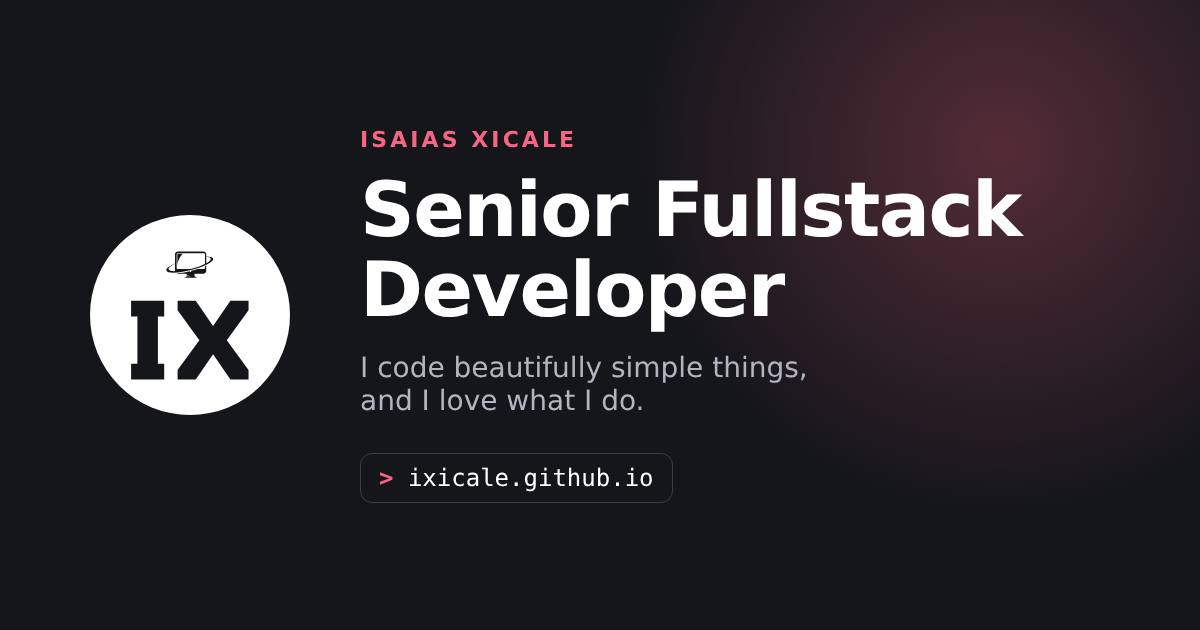
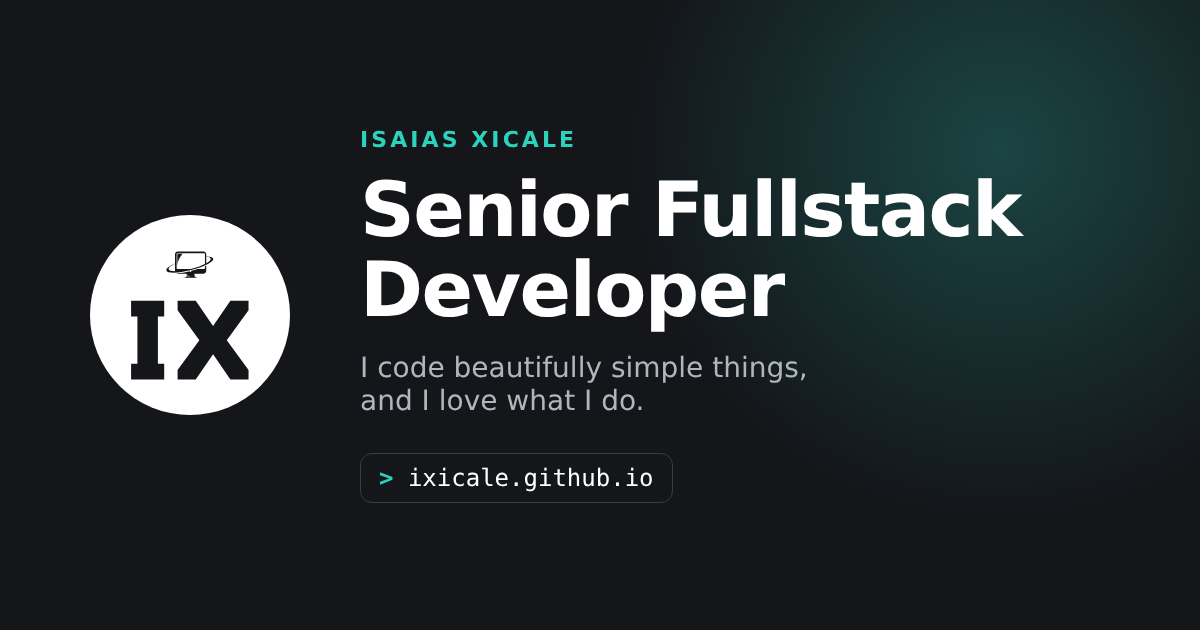
Use teal as the brand color and remove the GIF frame
- Brand color is now teal. _sass/_tokens.scss keeps one shade for the
  light theme (white text on it) and one for the dark theme.
- The intro GIF has no card frame. Light theme uses the white GIF on
  the white page. Dark theme uses a new intro-dark.gif: white areas
  become the page color and dark lines become light.
- The hero loads the GIF as a background image, so the browser loads
  only the GIF for the current theme.
- Hero buttons align left, the glow moves behind the text, and the
  link preview image uses teal.

Claude-Session: https://claude.ai/code/session_011fxJXWYugG9Ywsr2ganWa5

Changed region(s): [[0.6475, 0.0, 1.0, 0.573], [0.3083, 0.2111, 0.4933, 0.2413], [0.3083, 0.754, 0.3392, 0.7841]]

diff --git a/_sass/_tokens.scss b/_sass/_tokens.scss
@@ -3,15 +3,19 @@
 // Bulma 1.0 reads CSS variables, so the page and Bulma use the same values.
 // -----------------------------------------------------------------------------
 
-// Brand color: the pink from the old typing banner (#F75C7E).
-$accent-hue: 347;
+// Brand color: teal, like the teal in the intro GIF.
+// To change it, change the hue. Then check the contrast of the buttons:
+// light theme uses white text on the color, dark theme uses dark text.
+$accent-hue: 172;
+$accent-light: hsl($accent-hue, 80%, 28%); // Light theme (white text on it).
+$accent-dark: hsl($accent-hue, 65%, 50%); // Dark theme (dark text on it).
 
 @mixin light-tokens {
-  --accent: hsl(#{$accent-hue}, 72%, 46%);
-  --accent-hover: hsl(#{$accent-hue}, 72%, 40%);
+  --accent: #{$accent-light};
+  --accent-hover: #{darken($accent-light, 6%)};
   --accent-contrast: #fff;
-  --accent-soft: hsl(#{$accent-hue}, 90%, 96%);
-  --accent-soft-text: hsl(#{$accent-hue}, 72%, 38%);
+  --accent-soft: hsl(#{$accent-hue}, 60%, 94%);
+  --accent-soft-text: #{darken($accent-light, 8%)};
 
   --surface: #fff;
   --surface-alt: hsl(221, 30%, 98%);
@@ -25,11 +29,11 @@ $accent-hue: 347;
 }
 
 @mixin dark-tokens {
-  --accent: hsl(#{$accent-hue}, 90%, 68%);
-  --accent-hover: hsl(#{$accent-hue}, 90%, 74%);
+  --accent: #{$accent-dark};
+  --accent-hover: #{lighten($accent-dark, 6%)};
   --accent-contrast: hsl(#{$accent-hue}, 45%, 10%);
-  --accent-soft: hsla(#{$accent-hue}, 90%, 68%, 0.14);
-  --accent-soft-text: hsl(#{$accent-hue}, 90%, 78%);
+  --accent-soft: #{rgba($accent-dark, 0.14)};
+  --accent-soft-text: #{lighten($accent-dark, 12%)};
 
   --surface: hsl(221, 14%, 9%);
   --surface-alt: hsl(221, 14%, 11%);

diff --git a/_sass/sections/_hero.scss b/_sass/sections/_hero.scss
@@ -6,8 +6,8 @@
   &::before {
     content: "";
     position: absolute;
-    top: -20%;
-    right: -10%;
+    top: -30%;
+    left: -20%;
     width: 60vw;
     height: 60vw;
     border-radius: 50%;
@@ -64,22 +64,25 @@
 }
 
 .hero-buttons {
+  justify-content: flex-start; // Bulma centers buttons inside a hero.
   margin-bottom: 1.5rem !important;
 }
 
+// The GIF has the page color as its background, so it has no frame.
+// Light theme: white background. Dark theme: intro-dark.gif.
 .hero-media {
-  margin: 0;
-  padding: 1rem;
-  border: 1px solid var(--line);
-  border-radius: var(--radius-lg);
-  background: #fff; // The GIF has a white background.
-  box-shadow: var(--shadow-hover);
+  width: 100%;
+  aspect-ratio: 640 / 456;
+  background: var(--hero-image) center / contain no-repeat;
+}
 
-  img {
-    display: block;
-    width: 100%;
-    height: auto;
-    border-radius: var(--radius);
+[data-theme="dark"] .hero-media {
+  background-image: var(--hero-image-dark);
+}
+
+@media (prefers-color-scheme: dark) {
+  :root:not([data-theme="light"]) .hero-media {
+    background-image: var(--hero-image-dark);
   }
 }
 

diff --git a/_includes/sections/hero.html b/_includes/sections/hero.html
@@ -28,9 +28,15 @@
         </div>
 
         <div class="column is-5-desktop">
-          <figure class="hero-media">
-            <img src="{{ hero.image | relative_url }}" alt="{{ hero.image_alt }}" width="640" height="456" fetchpriority="high">
-          </figure>
+          {%- comment -%}
+            Background images, so the browser loads only the GIF for the current theme.
+          {%- endcomment -%}
+          <div
+            class="hero-media"
+            role="img"
+            aria-label="{{ hero.image_alt }}"
+            style="--hero-image: url('{{ hero.image | relative_url }}'); --hero-image-dark: url('{{ hero.image_dark | relative_url }}');"
+          ></div>
         </div>
       </div>
     </div>
